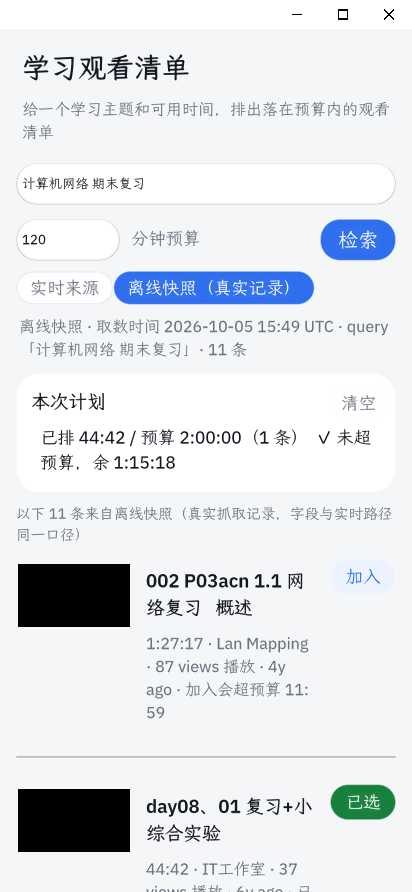
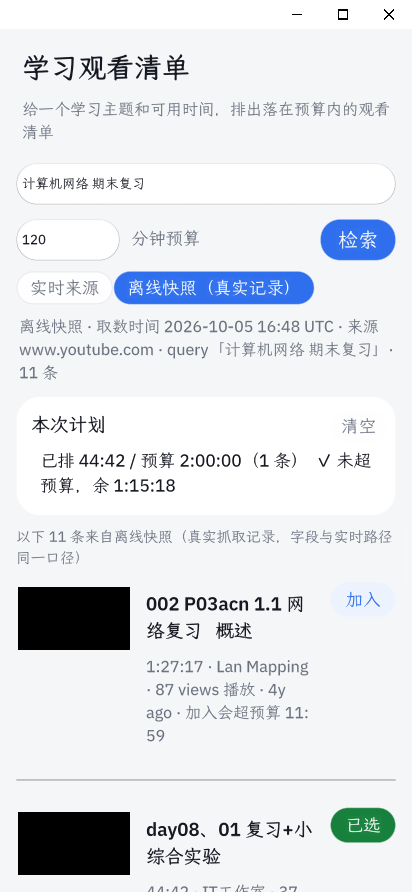
资产改为不含绝对 URL（过闸门）+ 重拍两张截图
- 闸门规则：bundle 内非脚本资产（.json 等）不得出现 https:// 字符串。
  快照只存 id 与纯文本字段；缩略图/播放地址由 main.splash 从 id 拼出，
  规则与运行时 sys.video 一致；provenance 改用来源主机名 + query + 取数时间。
- tools/make_snapshot.py 同步该口径；重新生成 bundle/catalog/computer-networks.json
- tools/octo check bundle -> PASSED（仅 unsigned 警告）
- 重拍 01/02 两张截图，与新 UI 文案一致

diff --git a/README.md b/README.md
@@ -154,6 +154,9 @@ Linux 上首次构建 `card-host` 需要系统图形库（wayland / X11 / ALSA /
 
 | 项 | 状态 |
 |---|---|
+| `tools/octo check bundle` | ✅ **PASSED**（只有 unsigned 警告）：
+  `study-watchlist 0.1.0 — PASSED` / `[warning] publisher-signature: unsigned: accountability rests on the hub alone` /
+  `grants: capabilities {"images","net","storage","web"}, hosts {"i.ytimg.com","m.youtube.com","www.youtube.com"}, storage 16777216 bytes, agent none` |
 | `bundle/screenshots/01-plan-verified.png` | ✅ 真实捕获：离线快照 11 条真实结果 + 预算 120 分钟 + 一条已加入 + `已排 44:42 / 预算 2:00:00 ✓ 余 1:15:18` |
 | `bundle/screenshots/02-source-unavailable.png` | ✅ 真实捕获：实时路径 12 秒超时后的失败态 + 「重试」 |
 | 一次操作 + 可核对结果 | ✅ 加入一条 → 计划总时长与预算差额实时更新（算术可用来源时长复核） |
